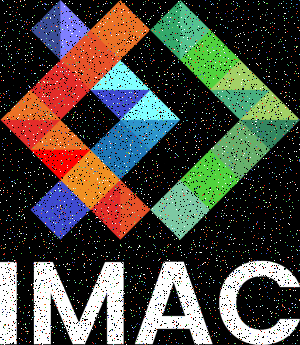
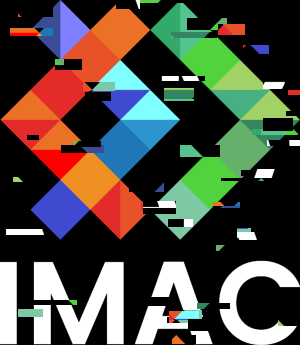
glitch done v1

diff --git a/src/main.cpp b/src/main.cpp
@@ -250,20 +250,24 @@ void glitch(sil::Image image)
     {
         for (int y{0}; y < image.height(); y++)
         {
-            int random{random_int(0,19)} ;
+            int random{random_int(0,5000)} ;
 
             if (random == 0) {
-                int x2 {random_int(0, image.width())};
-                int y2 {random_int(0, image.height())};
-                int height {random_int(5, 15)};
-                for(int i{0}; i<(25+random_int(0, 24)); i++) {
-                    std::swap(image.pixel(x+i, y), image.pixel(x2 + i, y2)) ;
+                int x2 {random_int(0, image.width() - 1)};
+                int y2 {random_int(0, image.height() -1)};
+                int width {random_int(24, 49)} ;
+                int height {random_int(5, 14)};
+                for(int i{0}; i<width; i++) {
+                    if(x+i<image.width() && x2+i < image.width()) {
+                        std::swap(image.pixel(x+i, y), image.pixel(x2 + i, y2)) ;
+                    }
                     for(int j{1}; j<height; j++) {
-                    std::swap(image.pixel(x+i, y+j), image.pixel(x2 + i, y2+j)) ;
+                        if (y+j < image.height() && y2 + j < image.height() && x+i<image.width() && x2+i < image.width()) {
+                            std::swap(image.pixel(x+i, y+j), image.pixel(x2 + i, y2+j)) ;
+                        }
                 }
                 }
             }
-            
         }
     }
     // TODO: modifier l'image
